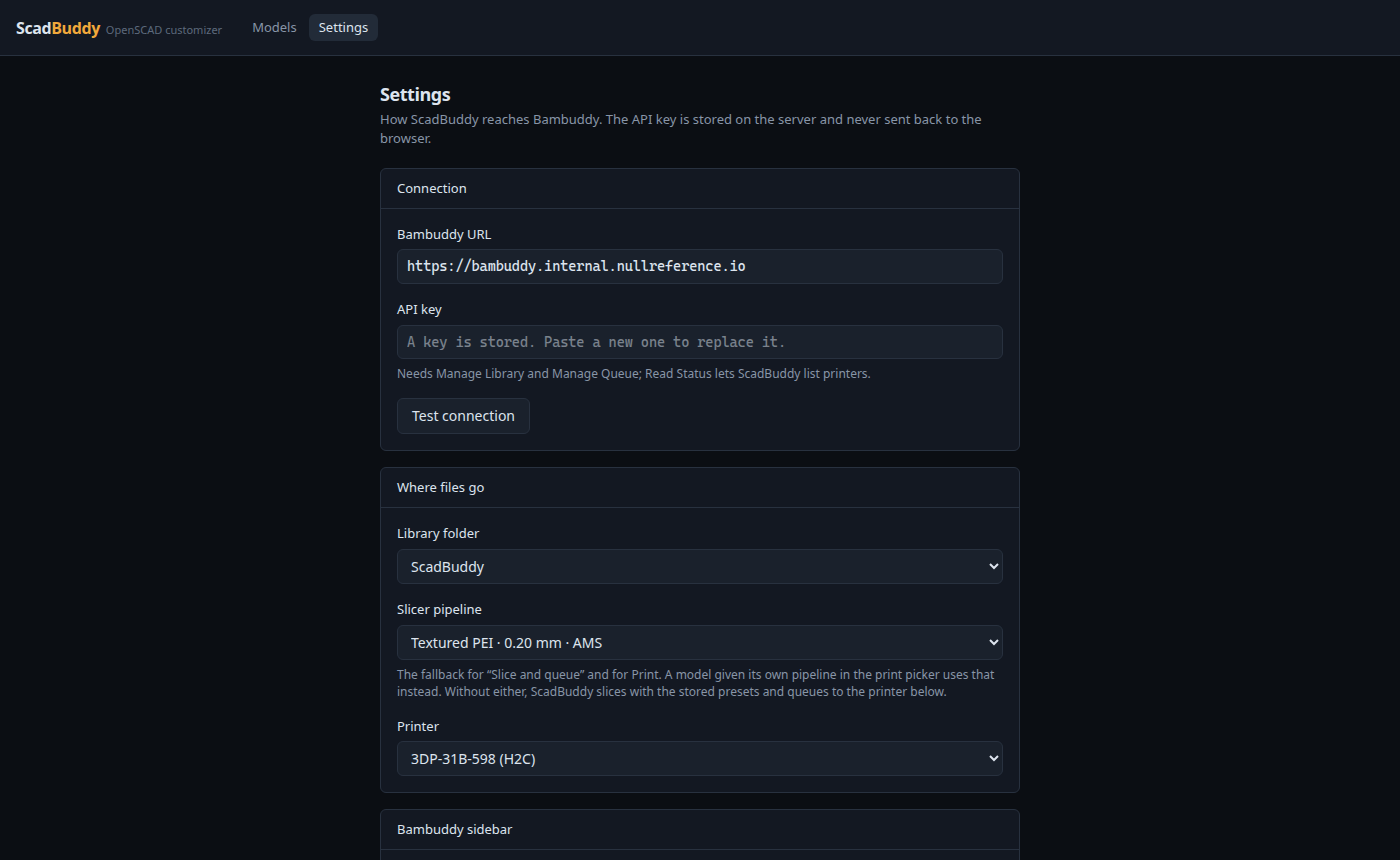
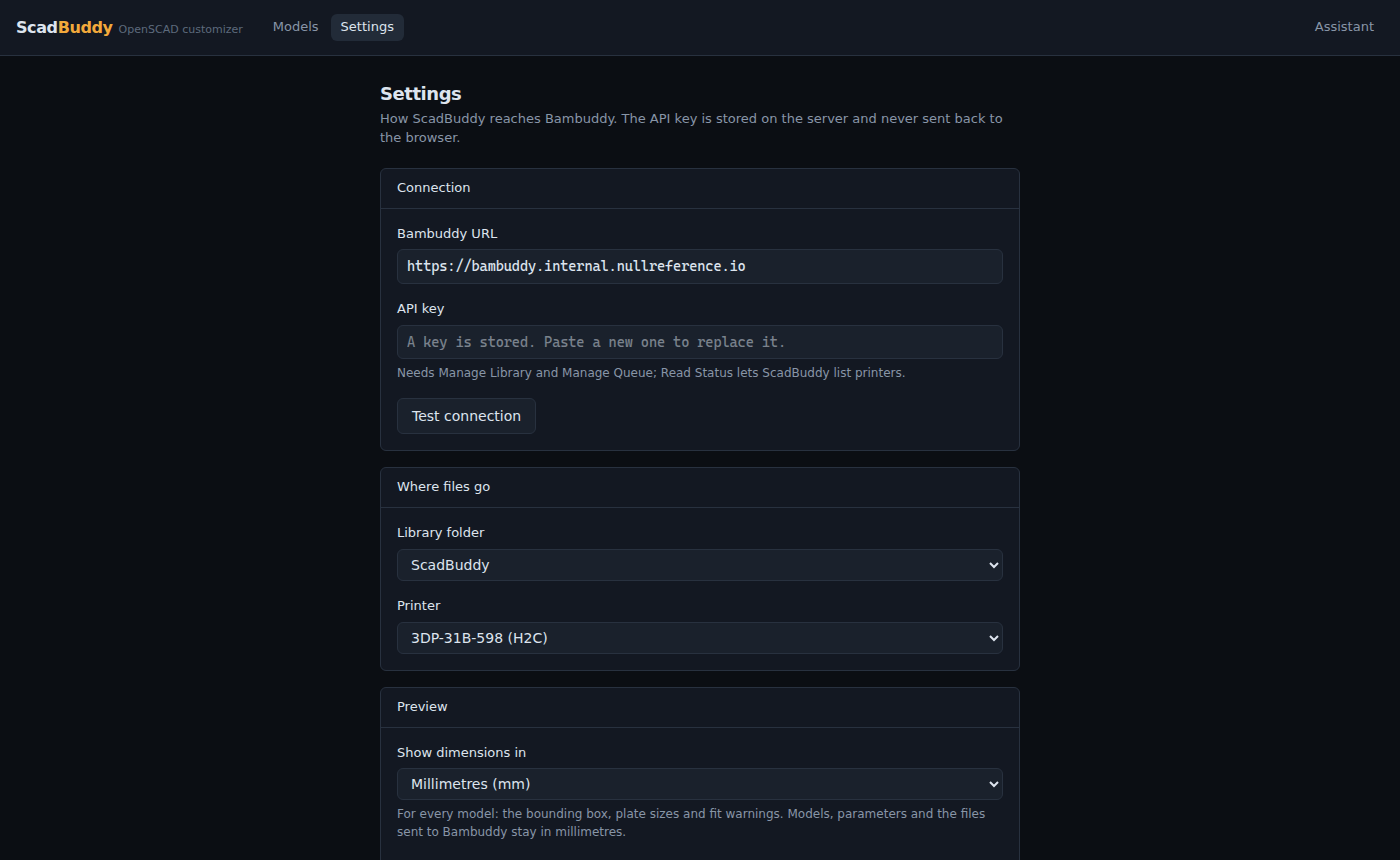
docs: the send bar only uploads; printing is the print picker's (#312)
User guide, README and the print skill describe the library-only send and drop
the Settings pipeline and the pipeline-run progress notes. The spool-first spec
gets a supersede note: the send bar no longer queues. The Settings screenshot
is retaken from the mocked preview without the pipeline selector.

diff --git a/docs/user-guide.md b/docs/user-guide.md
@@ -171,19 +171,15 @@ stored on ScadBuddy's server and is never sent to the browser.
    | Scope | Used for |
    |---|---|
    | **Manage Library** | uploading 3MFs, library folders, slicing, presets, and the sidebar External Link |
-   | **Manage Queue** | queueing prints and running slicer pipelines |
+   | **Manage Queue** | queueing prints from the print picker |
    | **Read Status** | listing printers, spools and AMS slots for the print picker and **Test connection** |
    | **Manage Projects** | only if you use the project picker |
 
-   Which scope Bambuddy checks for `/slicer-pipelines/` hasn't been confirmed:
-   ScadBuddy assumes Manage Queue. If a call is refused, ScadBuddy's error names the
-   scope that call asked for.
-
 2. Open **Settings** in ScadBuddy. Enter the Bambuddy URL and the key, then press
    **Test connection**.
-3. Under **Where files go**, choose the library folder, the slicer pipeline the send
-   bar runs and the printer. That one pipeline is used for every model; a per-model
-   pipeline saved by an older ScadBuddy is no longer used.
+3. Under **Where files go**, choose the library folder and the printer. **Send to
+   Bambuddy** lays its upload out for that printer's plate, and the print picker opens
+   on it.
 4. Under **Bambuddy sidebar**, enter ScadBuddy's own URL (the address Bambuddy
    should link to; ScadBuddy can't work it out from behind a proxy). Then press
    **Add to Bambuddy sidebar**. This creates an External Link called "ScadBuddy"
@@ -223,9 +219,10 @@ so it shows exactly what the 3MF will contain, with the bounding box in mm. Then
 - **Generate** saves the current render as an output, with its parameters and a
   thumbnail.
 - **Download 3MF** downloads that output.
-- **Send to Bambuddy** uploads the output to the library, or slices and queues it.
-  If ScadBuddy's own URL is set, the library file gets an "Edit in ScadBuddy" link
-  that opens these parameters again.
+- **Send to Bambuddy** uploads the output to the library, laid out for the printer set
+  in Settings. It doesn't slice or queue; use **Print** for that. If ScadBuddy's own URL
+  is set, the library file gets an "Edit in ScadBuddy" link that opens these parameters
+  again.
 - **Print** opens the print picker.
 
 The button at the top right of the preview shows it full screen, with the plate and
@@ -242,8 +239,8 @@ it, the view fills the frame instead.
 The print picker is spool-first: you choose the spools, the nozzle size, a quality
 tier and a plate, and ScadBuddy derives every Bambu printer, process and filament
 preset itself, then slices and queues through Bambuddy. There is no slicer pipeline to
-pick or maintain here — pipelines still exist in Bambuddy, and the one-click send bar
-and Settings' default pipeline still use one, until #312.
+pick or maintain. Pipelines still exist in Bambuddy, but ScadBuddy doesn't use them, and
+**Print** is the only way it prints.
 
 Top to bottom, the dialog is:
 
@@ -256,7 +253,7 @@ Top to bottom, the dialog is:
   printer set in Settings, else the first active printer — skipping a remembered or
   Settings printer that is no longer active. Presets are only resolved for the H2C, so
   printing on any other model is refused before anything is sliced.
-- **Filament** — the same spool-inventory picker the send bar uses. Loaded spools are
+- **Filament** — a spool-inventory picker. Loaded spools are
   marked with printer and AMS slot and listed first; an unloaded spool is still allowed,
   with a warning to load it first. Advanced adds a preset dropdown per slot, listing the
   presets Bambuddy has for the chosen nozzle size — "The spool's own preset" is always

diff --git a/plugins/scadbuddy/skills/print/SKILL.md b/plugins/scadbuddy/skills/print/SKILL.md
@@ -125,9 +125,10 @@ Which AMS tray and extruder each spool feeds, and which rack nozzle is used,
 stay Bambuddy's and the printer's decisions (spool-first spec §6).
 
 The simpler **send** path, `POST /api/v1/outputs/{output_id}/send` with
-`{mode: "library" | "queue", copies, options}`, uploads to the library folder
-and, in `queue` mode, runs the pipeline chosen in Settings (`backend/openapi.json`;
-main spec §7; spool-first spec §0). It is outward too.
+`{mode: "library"}`, only uploads the 3MF to the library folder and attaches the
+edit link. It never slices or queues; `mode: "queue"` is refused with a 422
+(`backend/openapi.json`, `SendRequest`; spool-first spec §0, the #312 note). To
+print, use the run above. Sending is outward too.
 
 ## 4. After the run: the result
 
@@ -154,9 +155,6 @@ Projects** scope, which the key may not have (print-flow spec §7).
 - `null` means the output was never printed. That is an answer, not an error.
 - `settled` says when to stop. An all-plates print reads "Slicing…" until one of
   its plates has a queue entry, and a plate can fail before it is ever queued.
-  For a send-bar pipeline run, **`status` and the copy counters don't move** on a
-  failure, so don't read them as "still printing". The run's `completed_at` is
-  what settles it (print-flow spec §6).
 - Show Bambuddy's `error_message` **word for word**, next to the `fix` the route
   suggests (change the mapping, retry). Don't paraphrase it
   (print-flow spec §6).
@@ -165,8 +163,9 @@ Projects** scope, which the key may not have (print-flow spec §7).
 
 Every Bambuddy call declares the API-key scope it needs, so a 401 or 403 names
 the missing scope (`CLAUDE.md`, section "Bambuddy iframe facts";
-`backend/scadbuddy/bambuddy/errors.py`). Sending needs **Manage Library** and
-**Manage Queue**, and listing printers needs **Read Status** (main spec §7).
+`backend/scadbuddy/bambuddy/errors.py`). Sending needs **Manage Library**,
+printing also needs **Manage Queue**, and listing printers needs **Read Status**
+(main spec §7).
 Tell the user which scope to add to the key in Bambuddy. The key itself never
 leaves the server (`CLAUDE.md`, section "Bambuddy iframe facts").
 

diff --git a/README.md b/README.md
@@ -32,7 +32,7 @@ multi-colour rules, connecting Bambuddy and each feature.
   change and shows per-colour parts and the bounding box.
 - **Multi-colour 3MF**: one closed solid per colour, each on its own extruder, with
   plate cover images and a layout sized for the target printer's plate.
-- **Send to Bambuddy**: upload to a library folder, or slice and queue it.
+- **Send to Bambuddy**: upload to a library folder; printing is the print picker's job.
 - **Print picker**: spool-first — pick spools, nozzle size, a quality tier and a plate,
   and ScadBuddy derives the printer, process and filament presets and slices and queues
   through Bambuddy. No slicer pipeline to pick or maintain; Advanced mode adds per-side

diff --git a/docs/superpowers/specs/2026-09-27-spool-first-print-design.md b/docs/superpowers/specs/2026-09-27-spool-first-print-design.md
@@ -35,6 +35,14 @@ and changed it went with the picker.
 Converting the send bar to spool-first is tracked as its own follow-up,
 eh-homelab/ScadBuddy#312.
 
+**Superseded by #312 (2026-09-28): the send bar no longer queues.** `POST
+/outputs/{id}/send` only uploads the 3MF to the library, laid out for the Settings
+printer, and attaches the edit link. Its queue mode, copies and print options are gone,
+and so are Settings' default pipeline, the raw slicer-preset settings, the pipeline
+progress route and ScadBuddy's Bambuddy pipeline client calls. The print dialog's run
+(§4) is the only path that prints. The amendment 2 paragraph above describes the state
+before #312.
+
 ## 1. Scope
 
 This is project 1 of 3:
